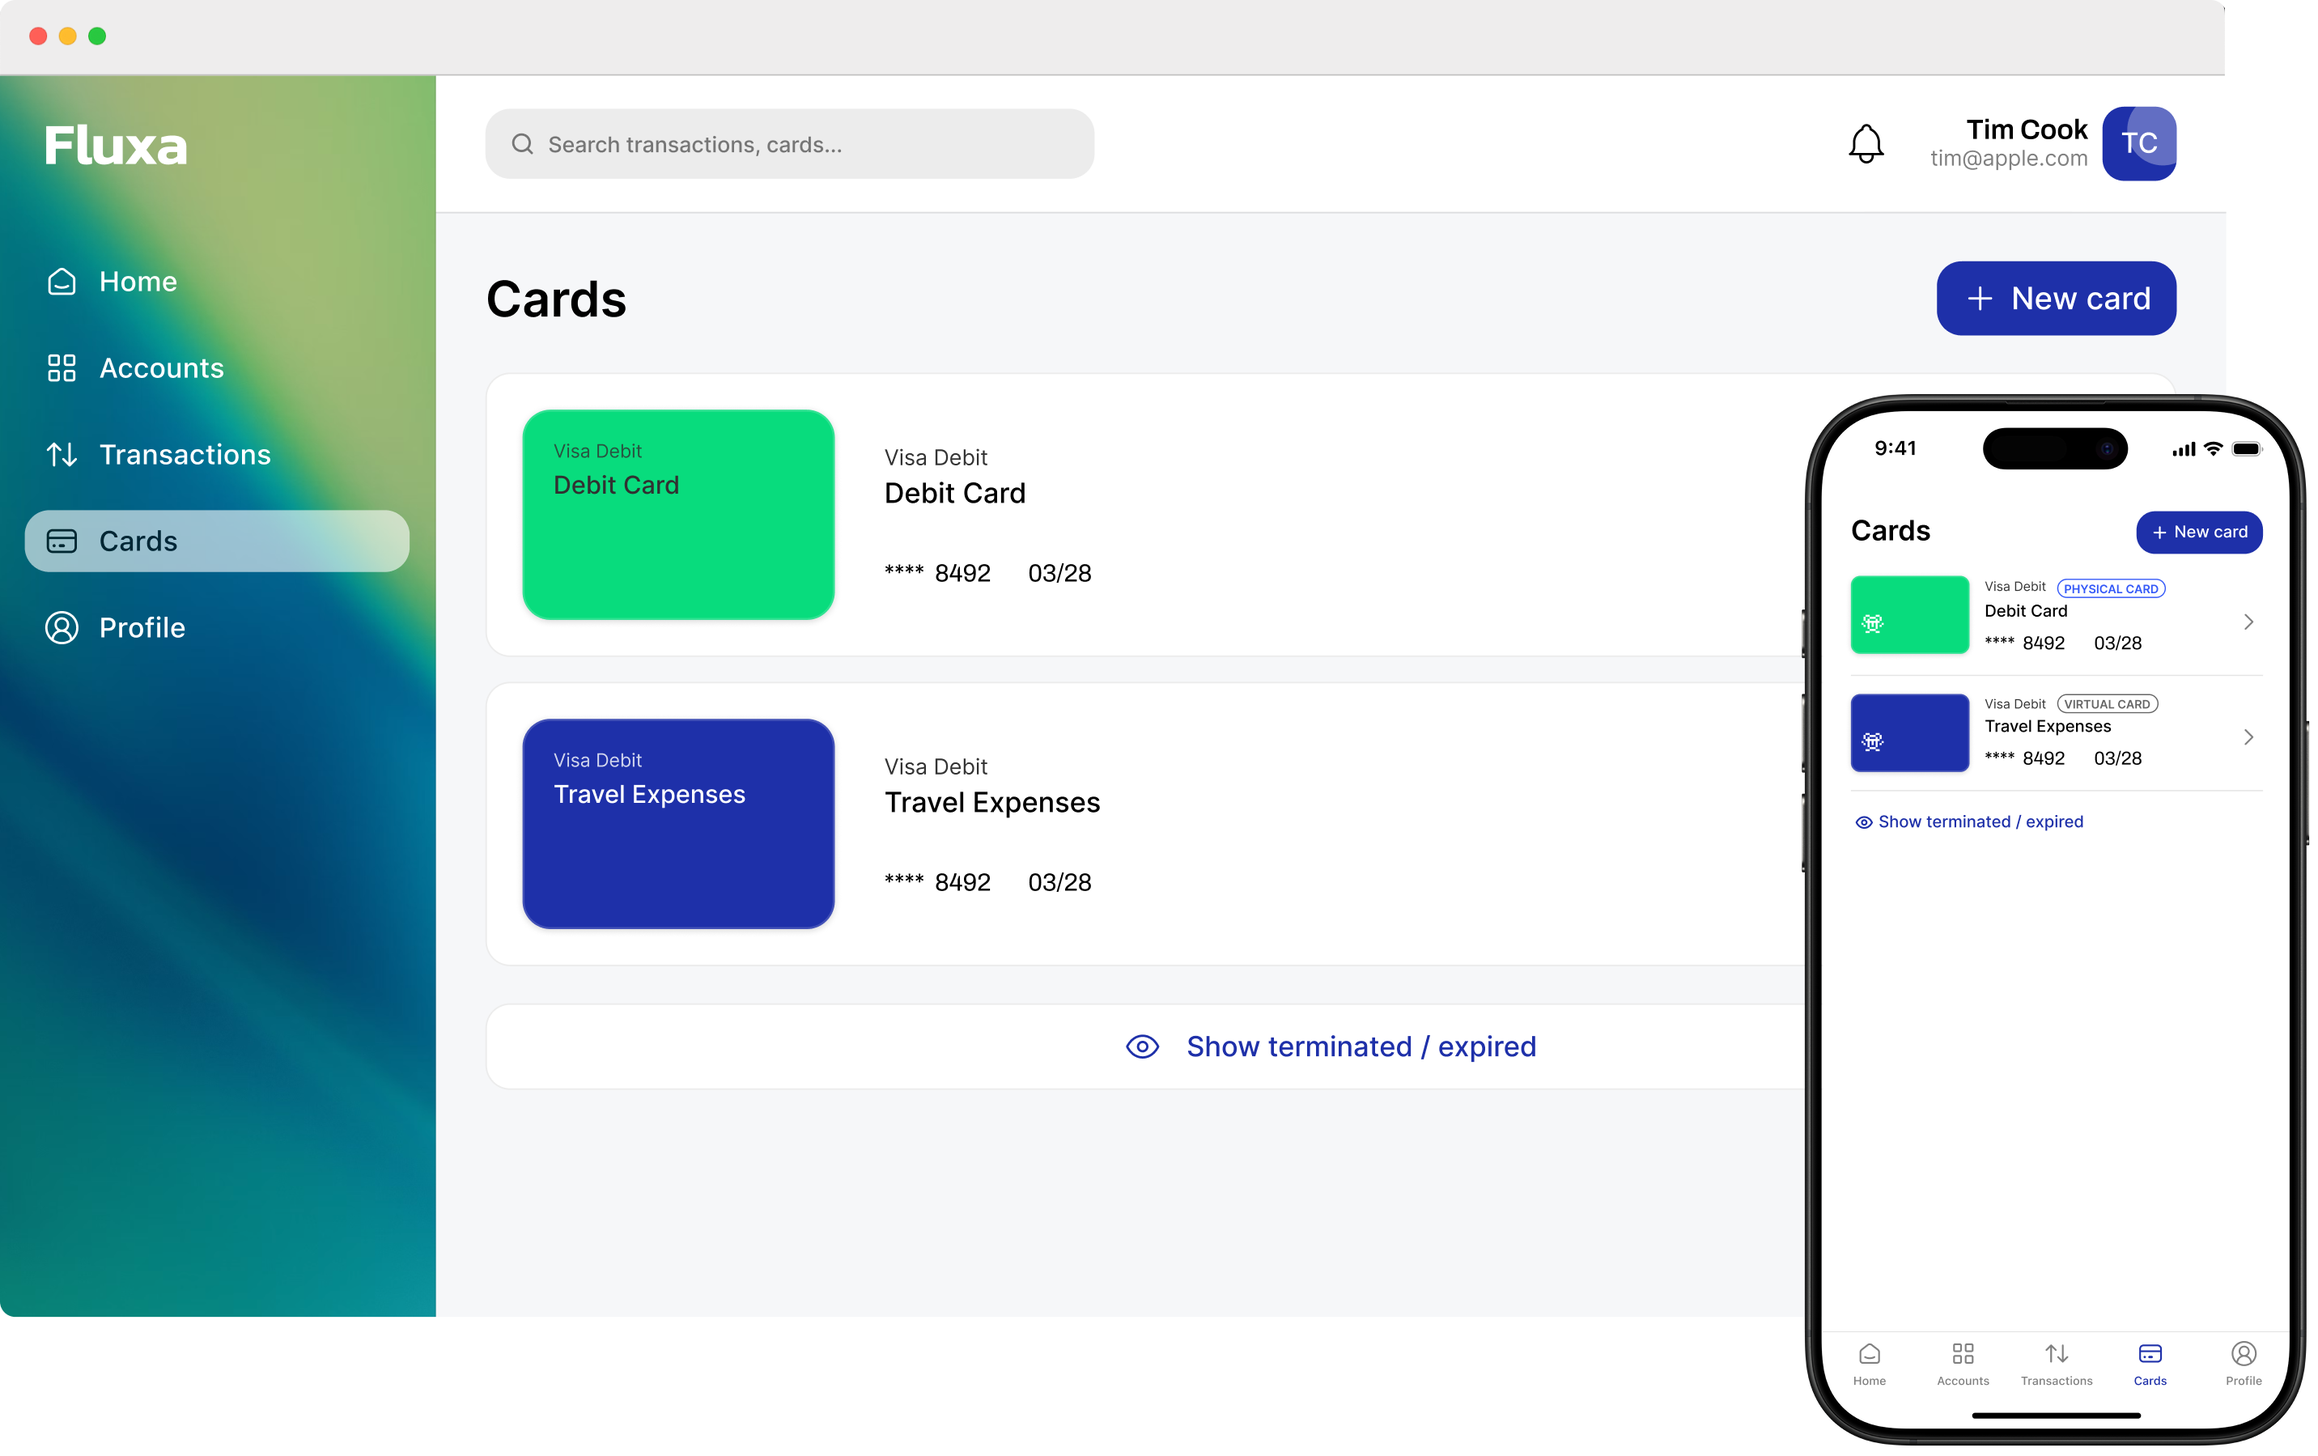
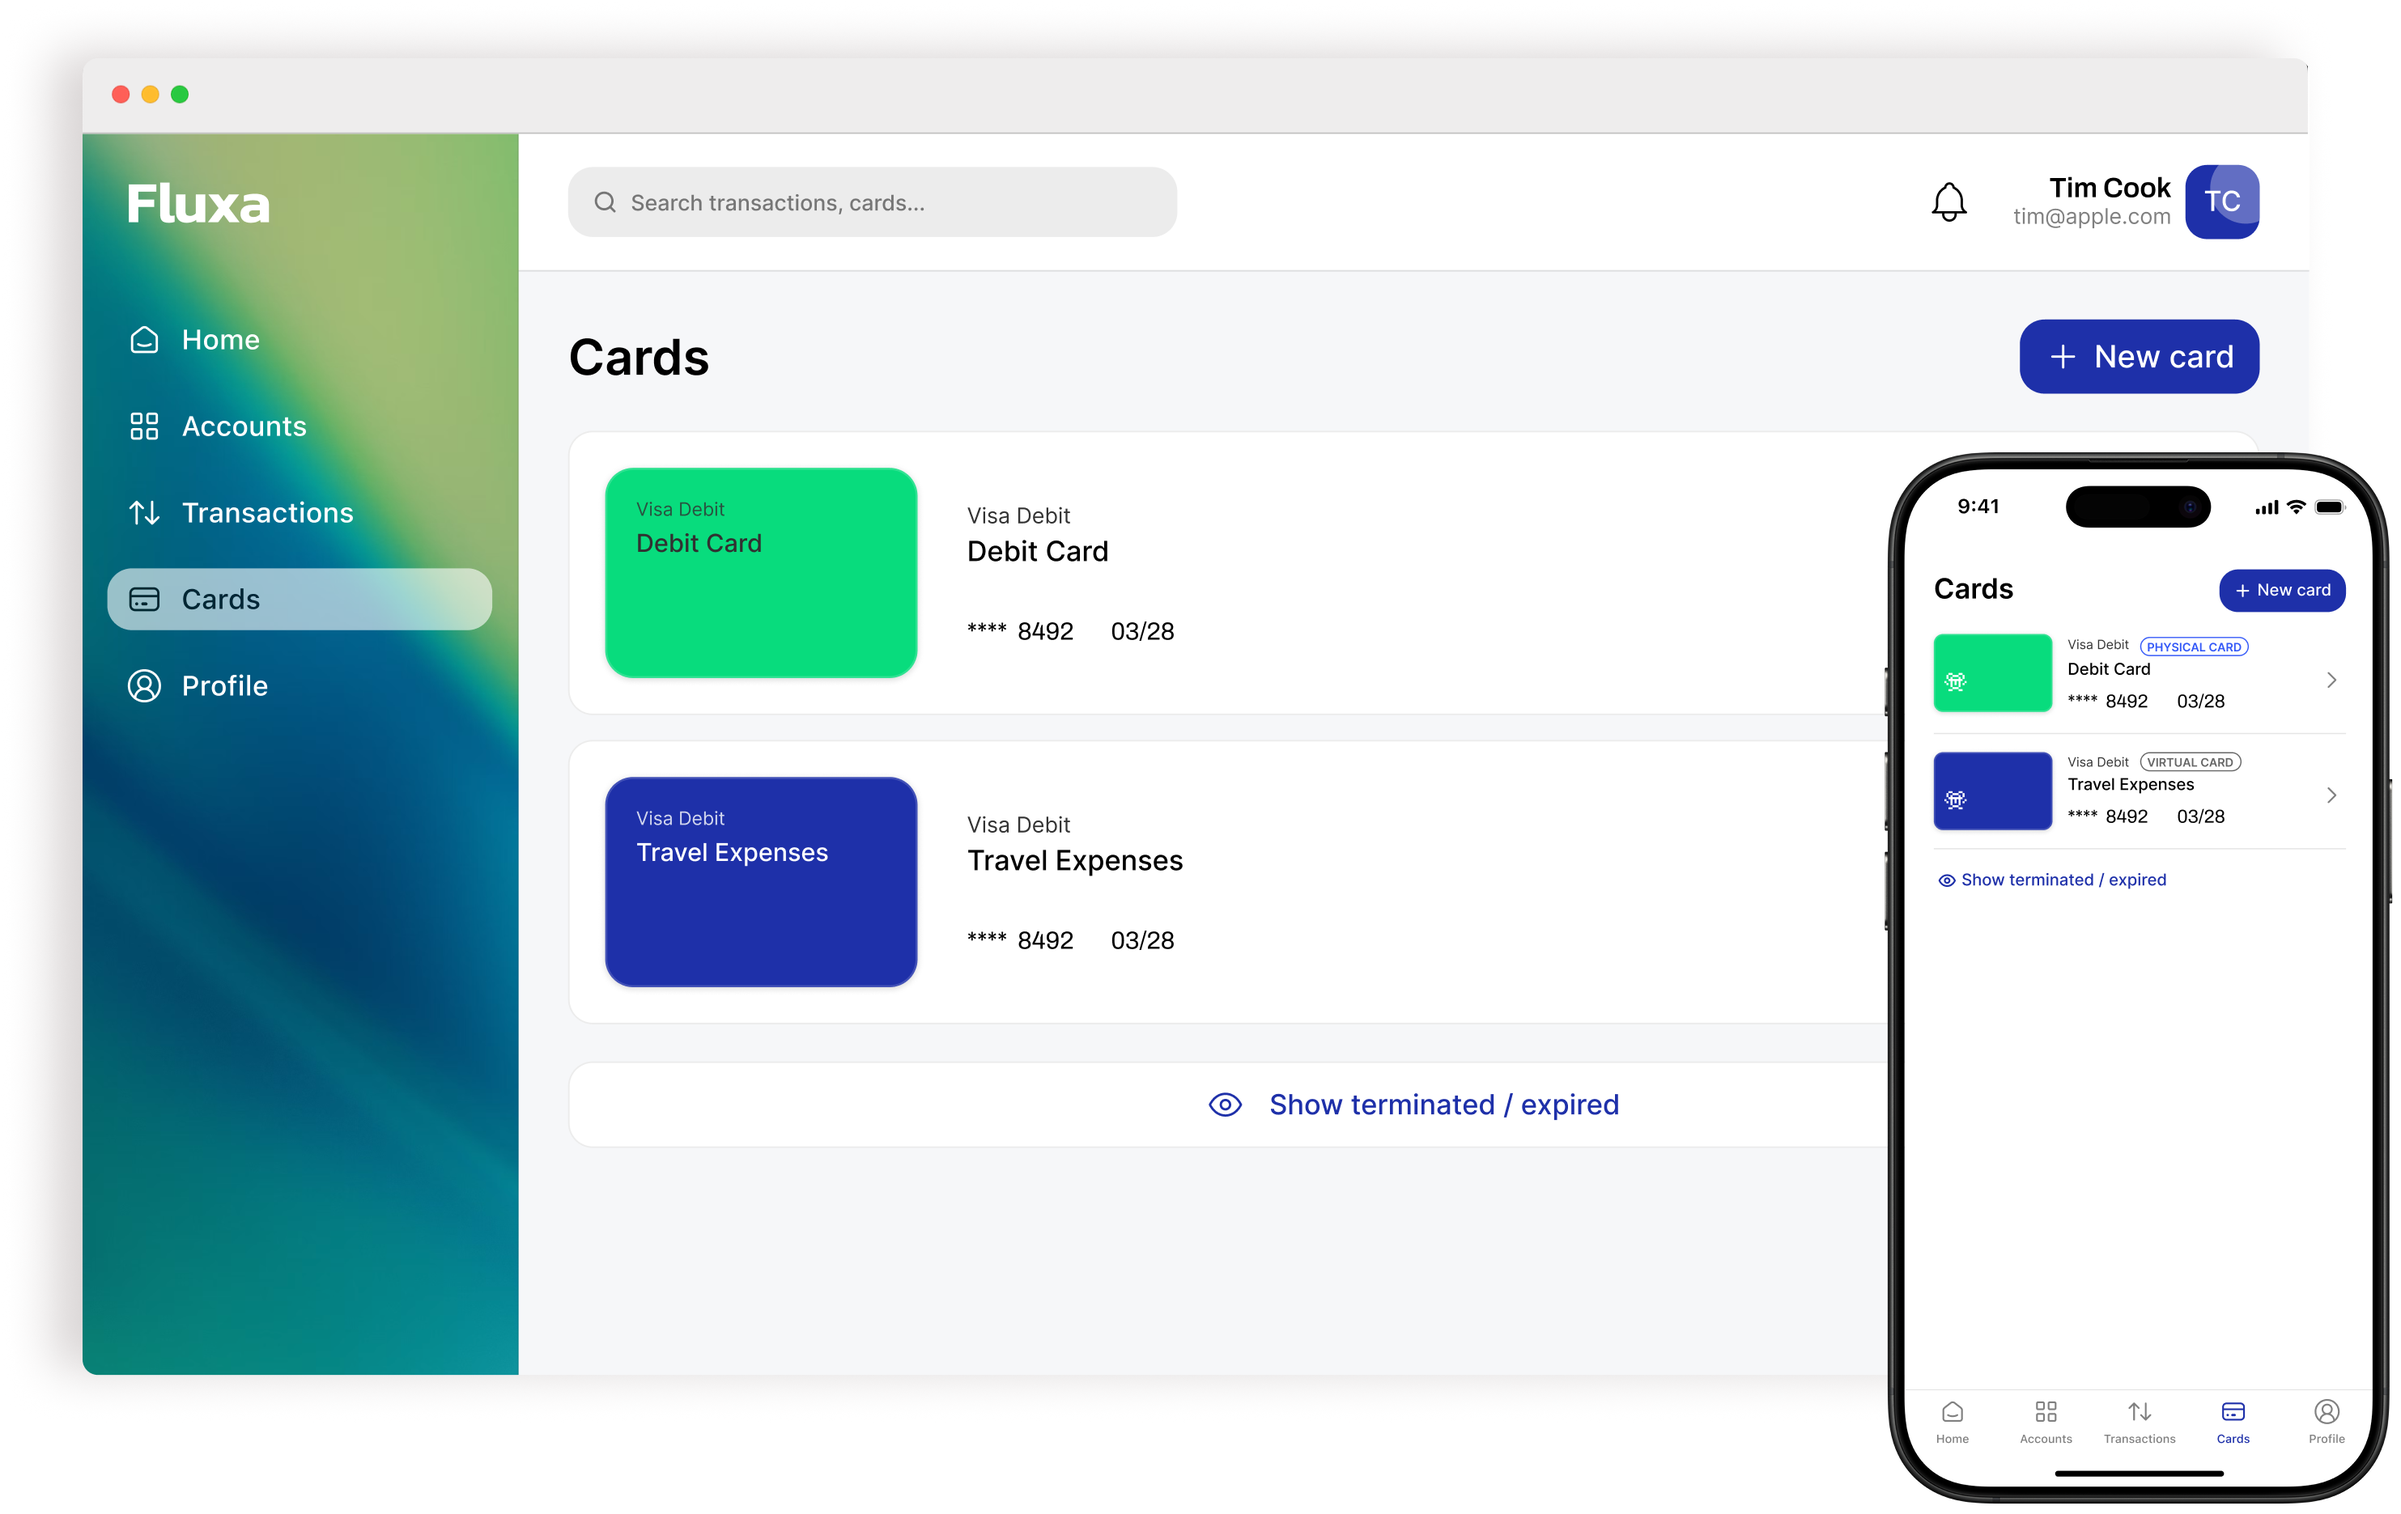
Refresh mockup imagery, add mobile scroll-snap carousel for ProductDetail
- Replace Mockup Green, Branded Mockup2, and Branded Mockup3 PNGs with new versions; aspect ratios now align across all three (~1.586), so MockupSection container `aspectRatio` updated to `2968 / 1871` and the swapped images render at the same dimensions.
- MockupSection: reposition the 3rd-stage pulse dot to sit immediately to the right of the "Home" label.
- ProductDetail: introduce mobile-only `KycMockupCarousel` (horizontal scroll-snap, 80% width slides with -10% peek behind the leading image, z-index ordered, rAF-throttled scroll listener that drives a 5-dot indicator). Tap-to-scale stack is preserved verbatim for `md+` viewports.
- Add `.scrollbar-hide` utility (cross-browser) for the carousel scroll container.

diff --git a/src/components/sections/ProductDetail.tsx b/src/components/sections/ProductDetail.tsx
@@ -1,34 +1,117 @@
-import { useState } from "react";
+import { useEffect, useRef, useState } from "react";
 import { Tabs, TabsContent, TabsList, TabsTrigger } from "@/components/ui/tabs";
 import { Monitor, Smartphone } from "lucide-react";
+
+// Mobile-only: horizontal scroll-snap carousel. Each image takes 80% width; the
+// 10% inline padding lets the first/last image snap-center cleanly, and adjacent
+// images peek behind a -10% margin so it reads as a stack rather than a strip.
+function KycMockupCarousel({ images, title }: { images: string[]; title: string }) {
+  const [activeIdx, setActiveIdx] = useState(0);
+  const scrollRef = useRef<HTMLDivElement>(null);
+
+  useEffect(() => {
+    const el = scrollRef.current;
+    if (!el) return;
+    let raf = 0;
+    const onScroll = () => {
+      cancelAnimationFrame(raf);
+      raf = requestAnimationFrame(() => {
+        const center = el.scrollLeft + el.clientWidth / 2;
+        let best = 0;
+        let bestDist = Infinity;
+        Array.from(el.children).forEach((child, i) => {
+          const c = child as HTMLElement;
+          const cCenter = c.offsetLeft + c.clientWidth / 2;
+          const d = Math.abs(center - cCenter);
+          if (d < bestDist) {
+            bestDist = d;
+            best = i;
+          }
+        });
+        setActiveIdx(best);
+      });
+    };
+    el.addEventListener("scroll", onScroll, { passive: true });
+    return () => {
+      el.removeEventListener("scroll", onScroll);
+      cancelAnimationFrame(raf);
+    };
+  }, []);
+
+  return (
+    <div className="w-full">
+      <div
+        ref={scrollRef}
+        className="scrollbar-hide flex snap-x snap-mandatory overflow-x-auto px-[10%]"
+      >
+        {images.map((img, idx) => (
+          <div
+            key={idx}
+            className={`flex-none w-[80%] snap-center ${idx > 0 ? "-ml-[10%]" : ""}`}
+            style={{ zIndex: images.length - idx }}
+          >
+            <img
+              src={img}
+              alt={`${title} step ${idx + 1}`}
+              className="block w-full"
+              draggable={false}
+            />
+          </div>
+        ))}
+      </div>
+      <div className="mt-6 flex items-center justify-center gap-2">
+        {images.map((_, idx) => (
+          <span
+            key={idx}
+            aria-hidden
+            className={`block h-2 rounded-full transition-all duration-300 ${
+              idx === activeIdx ? "w-6 bg-dark" : "w-2 bg-dark/30"
+            }`}
+          />
+        ))}
+      </div>
+    </div>
+  );
+}
 
 function KycMockupStack({ images, title, maxWidth = "78rem" }: { images: string[]; title: string; maxWidth?: string }) {
   const [activeIdx, setActiveIdx] = useState<number | null>(null);
 
   return (
-    <div className="flex w-full items-center justify-center px-[4%] py-[7%]" style={{ maxWidth }}>
-      {images.map((img, idx) => {
-        const isActive = activeIdx === idx;
-        return (
-          <button
-            key={idx}
-            type="button"
-            onClick={() => setActiveIdx(isActive ? null : idx)}
-            aria-pressed={isActive}
-            aria-label={`${title} step ${idx + 1}`}
-            className={`relative min-w-0 flex-1 cursor-pointer appearance-none border-0 bg-transparent p-0 transition-transform duration-[400ms] [transition-timing-function:cubic-bezier(0.25,1,0.5,1)] focus-visible:outline-none focus-visible:ring-2 focus-visible:ring-brand/60 focus-visible:ring-offset-2 motion-reduce:transition-none ${
-              idx > 0 ? "-ml-8" : ""
-            } ${isActive ? "scale-[1.35]" : ""}`}
-            style={{
-              zIndex: isActive ? 60 : images.length - idx,
-              transformOrigin: "center center",
-            }}
-          >
-            <img src={img} alt="" className="block w-full" />
-          </button>
-        );
-      })}
-    </div>
+    <>
+      {/* Mobile viewport: scrollable carousel with dots */}
+      <div className="w-full md:hidden">
+        <KycMockupCarousel images={images} title={title} />
+      </div>
+
+      {/* Tablet/Desktop: existing tap-to-scale stack — unchanged */}
+      <div
+        className="hidden w-full items-center justify-center px-[4%] py-[7%] md:flex"
+        style={{ maxWidth }}
+      >
+        {images.map((img, idx) => {
+          const isActive = activeIdx === idx;
+          return (
+            <button
+              key={idx}
+              type="button"
+              onClick={() => setActiveIdx(isActive ? null : idx)}
+              aria-pressed={isActive}
+              aria-label={`${title} step ${idx + 1}`}
+              className={`relative min-w-0 flex-1 cursor-pointer appearance-none border-0 bg-transparent p-0 transition-transform duration-[400ms] [transition-timing-function:cubic-bezier(0.25,1,0.5,1)] focus-visible:outline-none focus-visible:ring-2 focus-visible:ring-brand/60 focus-visible:ring-offset-2 motion-reduce:transition-none ${
+                idx > 0 ? "-ml-8" : ""
+              } ${isActive ? "scale-[1.35]" : ""}`}
+              style={{
+                zIndex: isActive ? 60 : images.length - idx,
+                transformOrigin: "center center",
+              }}
+            >
+              <img src={img} alt="" className="block w-full" />
+            </button>
+          );
+        })}
+      </div>
+    </>
   );
 }
 

diff --git a/src/components/sections/MockupSection.tsx b/src/components/sections/MockupSection.tsx
@@ -11,7 +11,7 @@ const STAGES = [
   },
   {
     src: "/images/Branded Mockup3.png",
-    dot: { left: "14%", top: "19%" } as const,
+    dot: { left: "17%", top: "21%" } as const,
   },
 ] as const;
 
@@ -49,7 +49,7 @@ export default function MockupSection() {
               onClick={() => setStage((s) => (s + 1) % STAGES.length)}
               aria-label={nextLabel}
               className="group relative block w-full max-w-5xl cursor-pointer appearance-none border-0 bg-transparent p-0 focus-visible:outline-none focus-visible:ring-2 focus-visible:ring-brand/60 focus-visible:ring-offset-2"
-              style={{ aspectRatio: "3957 / 2495" }}
+              style={{ aspectRatio: "2968 / 1871" }}
             >
               <img
                 src={current.src}

diff --git a/src/index.css b/src/index.css
@@ -266,6 +266,15 @@ main > section:not(:first-of-type).in-view {
   }
 }
 
+/* Cross-browser scrollbar hider for the mobile mockup carousel. */
+.scrollbar-hide {
+  -ms-overflow-style: none;
+  scrollbar-width: none;
+}
+.scrollbar-hide::-webkit-scrollbar {
+  display: none;
+}
+
 /* MockupSection: pulsing dot indicator over the Home tab.
    The dot itself is solid; a ::before pseudo expands+fades to create the pulse halo. */
 .mockup-pulse-dot {
